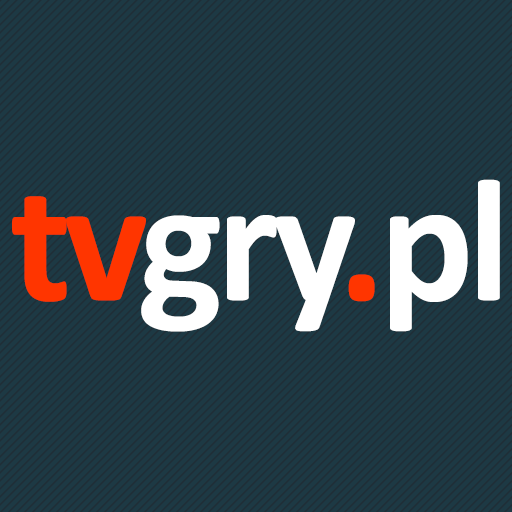
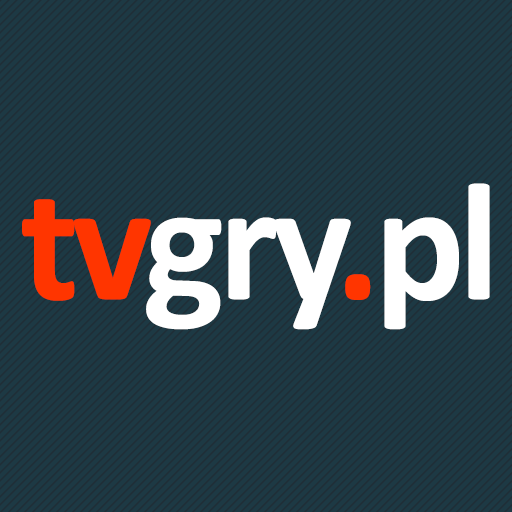
"Popular" category
Also new icons to rule the world

Changed region(s): [[0.0, 0.375, 0.5938, 0.6562], [0.5625, 0.3438, 1.0, 0.6562]]

diff --git a/Contents/Code/__init__.py b/Contents/Code/__init__.py
@@ -2,7 +2,7 @@ NAME = 'tvgry.pl'
 BASE_URL = 'http://tvgry.pl'
 GUIDE_URL = '%s/ajax/waypoint.asp?PART=1' % (BASE_URL)
 TEMATY_URL = '%s/tematy.asp' % (BASE_URL)
-USER_AGENT = 'Mozilla/5.0 (Windows NT 10.0; Win64; x64) AppleWebKit/537.36 (KHTML, like Gecko) Chrome/46.0.2490.86 Safari/537.36'
+USER_AGENT = 'Mozilla/5.0 (Windows NT 10.0; Win64; x64) AppleWebKit/537.36 (KHTML, like Gecko) Chrome/47.0.2526.106 Safari/537.36'
 
 import re
 
@@ -42,14 +42,22 @@ def TopicsList(page_no):
 	dir = ObjectContainer()
 	
 	page_url = TEMATY_URL + '?STRONA=' + str(page_no) if page_no > 1 else TEMATY_URL
-	page = HTML.ElementFromURL(page_url, encoding = 'cp1250', cacheTime = CACHE_1HOUR, headers = {'User-Agent': USER_AGENT})
+	page = HTML.ElementFromURL(page_url, encoding = 'cp1250', cacheTime = 0)
 	
 	if page_no < 2:
 		dir.add(
 			DirectoryObject(
-				key = Callback(Newest, page_no = 1),
+				key = Callback(MainPage, page_no = 1),
 				title = 'Najnowsze',
-				thumb = R('icon-default.png'),
+				thumb = R('newest.png'),
+				art = R('art-default.jpg')
+			)
+		)
+		dir.add(
+			DirectoryObject(
+				key = Callback(MainPage, page_no = 1, popular = True),
+				title = 'Popularne',
+				thumb = R('popular.png'),
 				art = R('art-default.jpg')
 			)
 		)
@@ -108,7 +116,7 @@ def Topic(url, page_no):
 	dir = ObjectContainer()
 	
 	page_url = BASE_URL + '/' + url + '&STRONA=' + str(page_no) if page_no > 1 else BASE_URL + '/' + url
-	page = HTML.ElementFromURL(page_url, encoding = 'cp1250', cacheTime = CACHE_1HOUR, headers = {'User-Agent': USER_AGENT})
+	page = HTML.ElementFromURL(page_url, encoding = 'cp1250', cacheTime = 0)
 	
 	for cat in page.xpath("//div[contains(@class, 'half-box promo')]"):
 		title = RemoveCounts(cat.xpath(".//h2")[0].text_content().strip())
@@ -147,18 +155,21 @@ def Topic(url, page_no):
 
 	return dir
 	
-def Newest(page_no):
+def MainPage(page_no, popular = False):
 	dir = ObjectContainer()
+	
+	if (page_no == 1):
+		HTTP.Headers['Cookie'] = 'typlisty=1' if popular else ''
 
 	page_url = BASE_URL + '/ajax/waypoint.asp?PART=' + str(page_no) if page_no > 1 else BASE_URL
-	page = HTML.ElementFromURL(page_url, encoding = 'cp1250', cacheTime = CACHE_1HOUR, headers = {'User-Agent': USER_AGENT})
-	
+	page = HTML.ElementFromURL(page_url, encoding = 'cp1250', cacheTime = 0)
+
 	for movie in page.xpath("//div[contains(@id, 'movie-cnt-c-')]"):
 		video_url = BASE_URL + movie.xpath(".//a[contains(@class, 'movie-link')]")[0].get('href')
 		title = movie.xpath(".//h2[contains(@itemprop, 'name')]")[0].text_content().strip()
 		summary = movie.xpath(".//p[contains(@itemprop, 'description')]")[0].text_content().strip()
 		art_url = movie.xpath(".//img")[0].get('src')
-		thumb_url = art_url.replace('N960', 'N300')
+		thumb_url = art_url.replace('N960', 'N460')
 	
 		dir.add(
 			VideoClipObject(
@@ -172,7 +183,7 @@ def Newest(page_no):
 		
 	dir.add(
 		NextPageObject(
-			key = Callback(Newest, page_no = page_no + 1),
+			key = Callback(MainPage, page_no = page_no + 1, popular = popular),
 			title = 'Dalej...'
 		)
 	)
